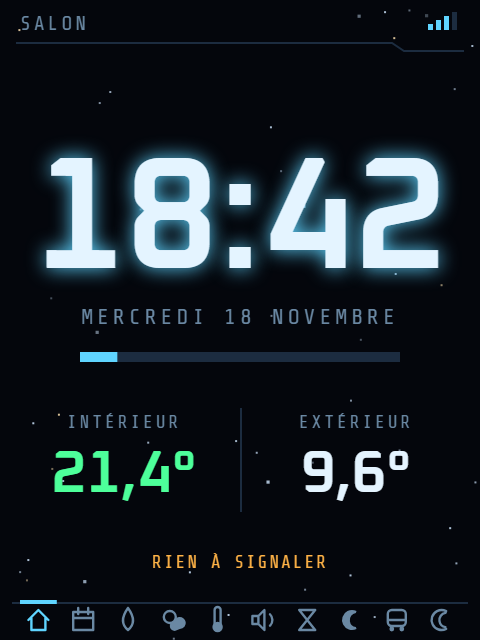
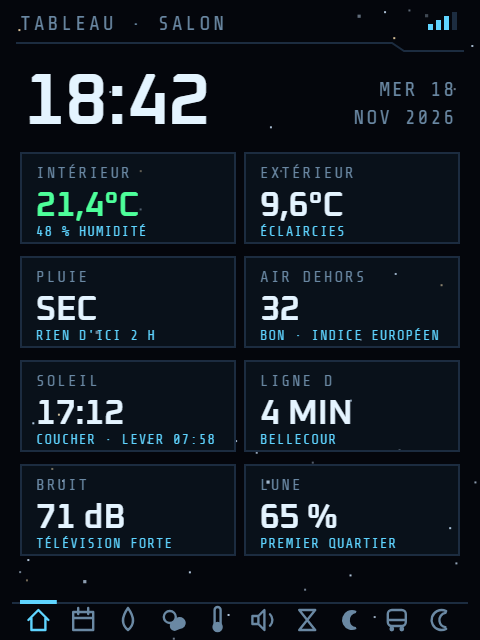
Site : image du Tableau de bord corrigée
La maquette compte un accueil de plus pour Galaxie (caisson de stase) : l'export prenait la Grande heure à la place.

diff --git a/tools-src/site/make-export.js b/tools-src/site/make-export.js
@@ -32,7 +32,7 @@ setTimeout(() => {
       .forEach(([n, s]) => shot('ecran-' + n, 'galaxie', s));
     [['grandprix',3],['loutre',1],['grimoire',1],['labo',2],['portail',6]].forEach(([t, s]) => shot('ecran-' + t + '-' + s, t, s));
     shot('variante-grande', 'assistant', 0, { v: 1 });
-    shot('variante-tableau', 'galaxie', 0, { v: 2 });
+    shot('variante-tableau', 'galaxie', 0, { v: 3 });
     shot('nuit-galaxie', 'galaxie', 5, { ns: 0, nc: 0 });
     shot('nuit-grimoire', 'grimoire', 5, { ns: 0, nc: 1 });
     shot('nuit-loutre', 'loutre', 5, { ns: 0, nc: 1 });
